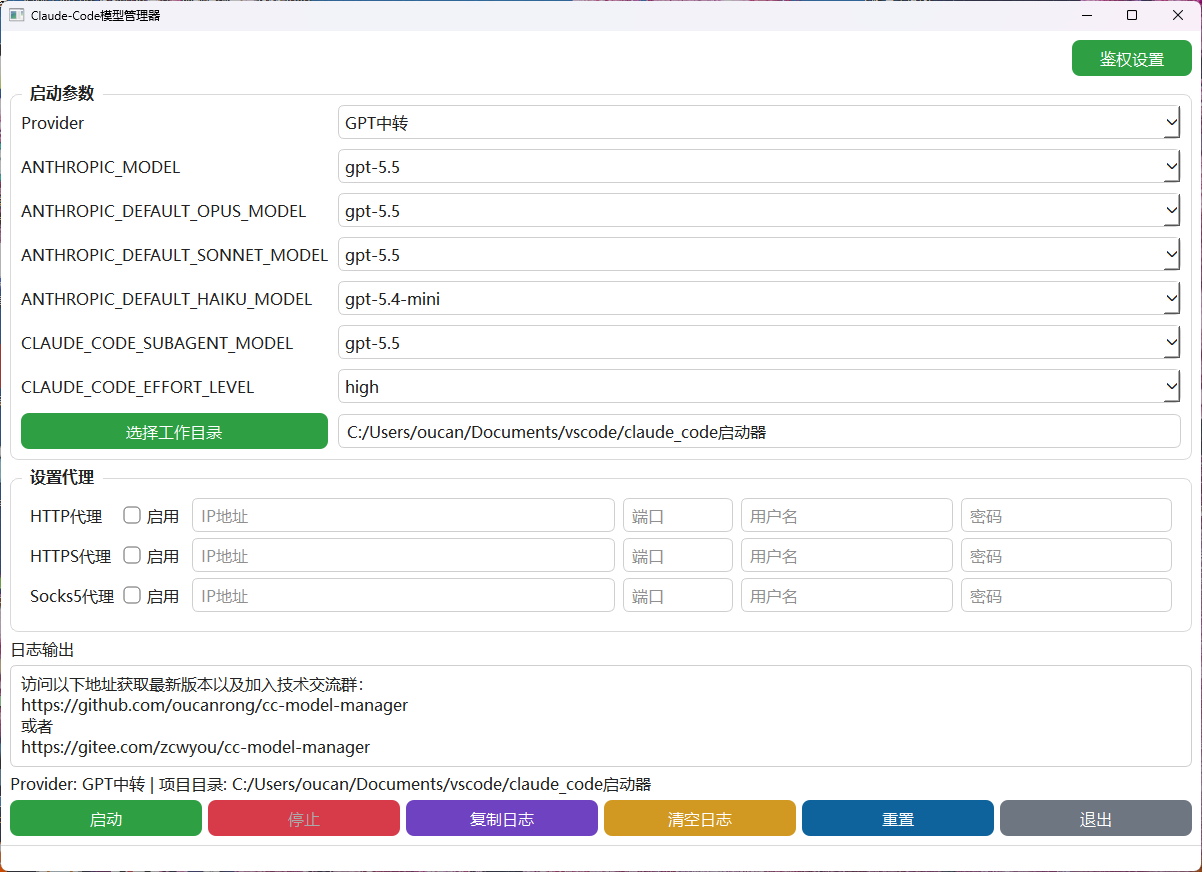
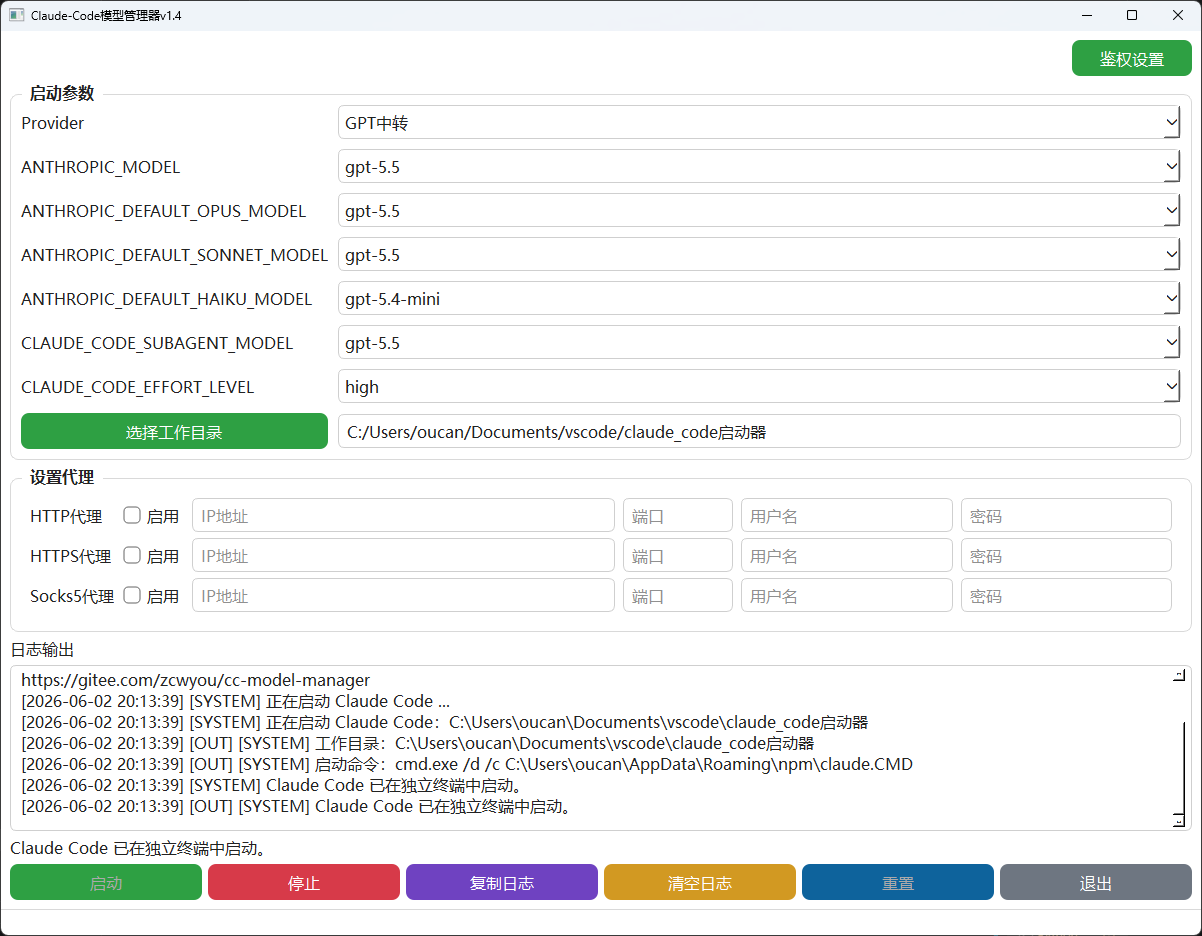
更新GPT中转的默认参数

Changed region(s): [[0.0, 0.0, 1.0, 1.0], [0.0, 0.0, 0.1539, 0.031]]

diff --git a/README.md b/README.md
@@ -51,6 +51,7 @@
 
 4.6 支持第3方GPT中转
 ![选择3方GPT中转](https://github.com/oucanrong/cc-model-manager/blob/main/screenshot/06-gpt-proxy.png)
+![使用3方GPT中转](https://github.com/oucanrong/cc-model-manager/blob/main/screenshot/06b-gpt-proxy.png)
 
 ### 选项 B：从源码运行（适合开发者）
 